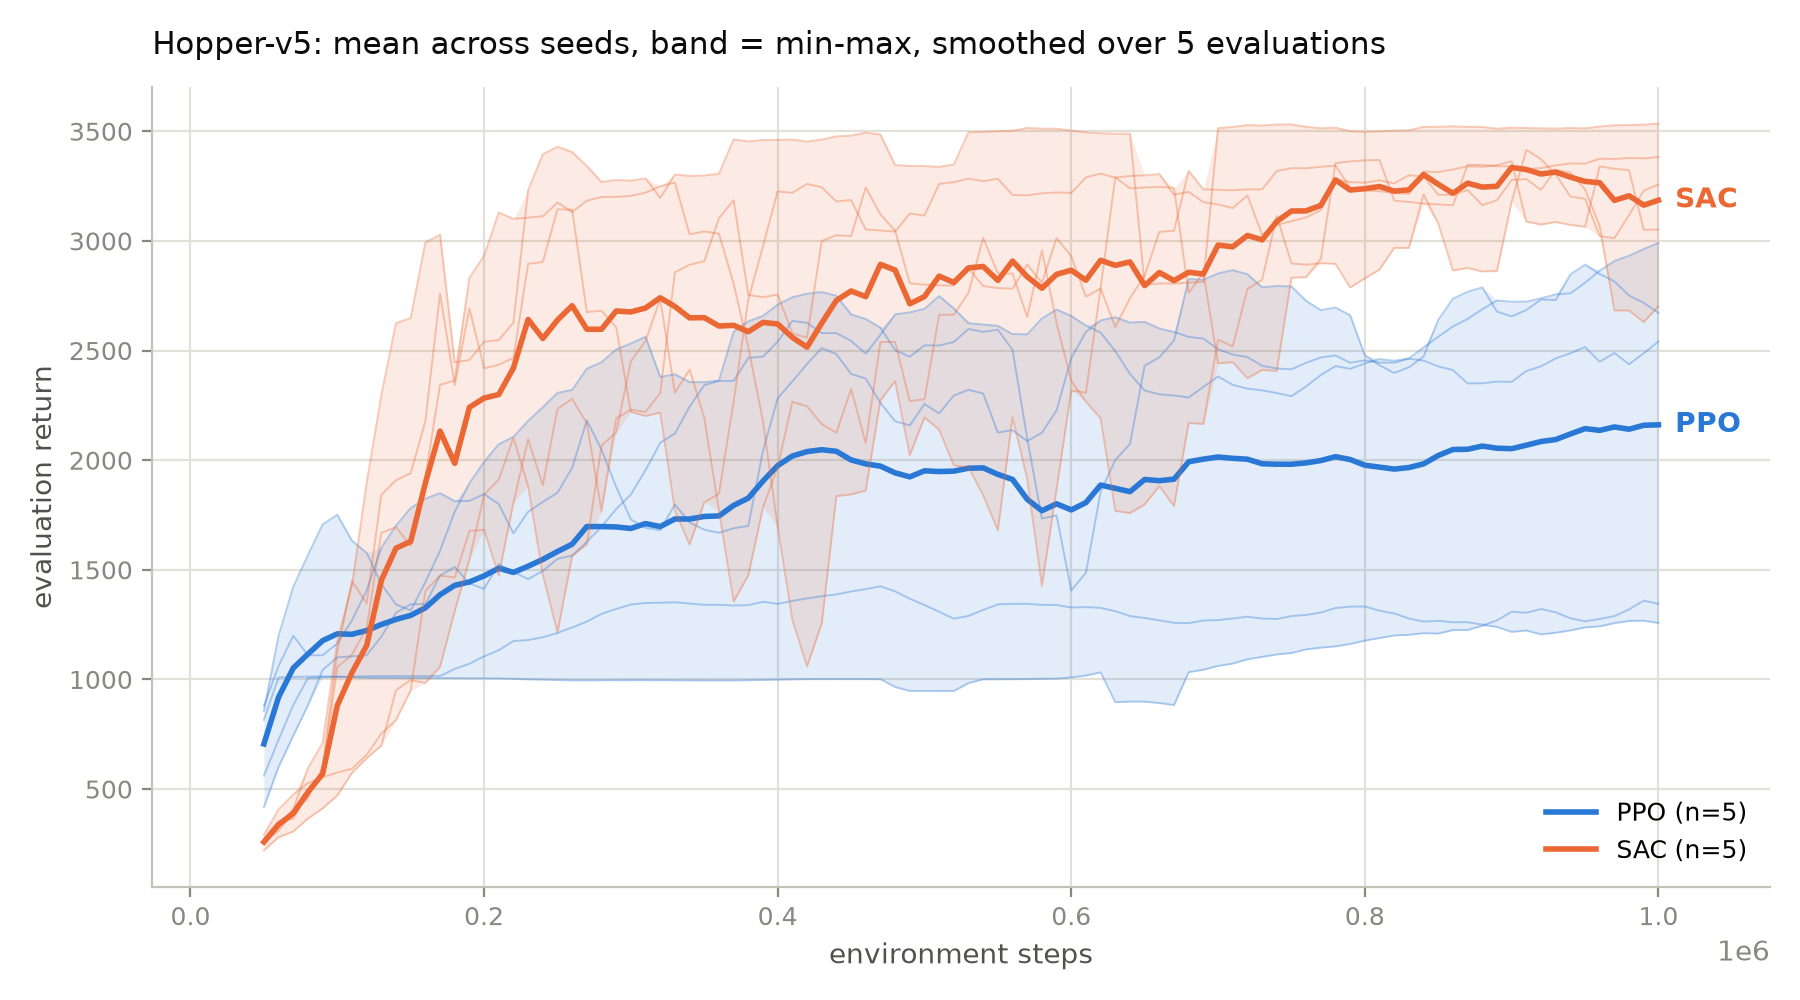
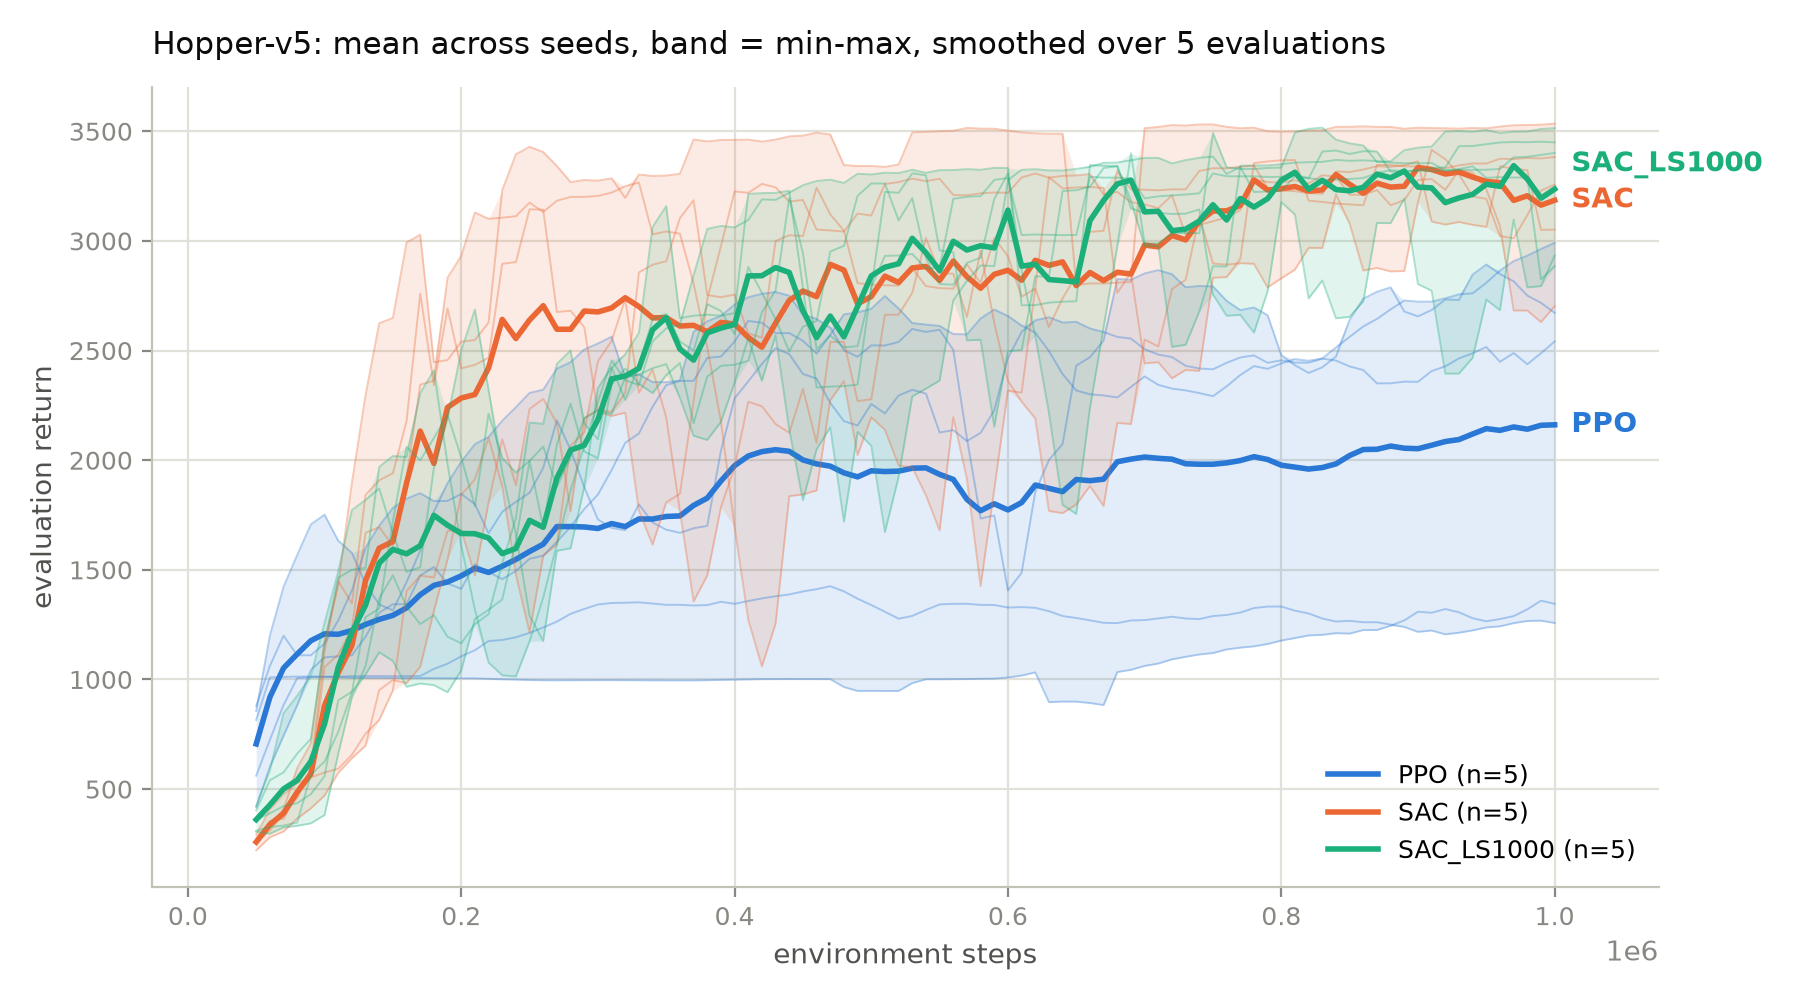
docs: add the learning_starts ablation as a negative result

diff --git a/README.md b/README.md
@@ -1,11 +1,15 @@
 # Sample efficiency of PPO and SAC on MuJoCo locomotion
 
 SAC reaches a return of 3000 on Hopper-v5 in 250k environment steps, in all five
-seeds. No PPO seed reached that level within the full 1M step budget. PPO's spread
-across seeds is 3.6 times wider than SAC's, and an earlier 3 seed estimate of PPO's
-final performance came out 27% higher than the 5 seed one.
+seeds. No PPO seed reached that level within the full 1M step budget. PPO is
+faster than SAC below a return of about 1500, and its spread across seeds is
+3.6 times wider.
 
-![Learning curves for PPO and SAC on Hopper-v5](figures/hopper-v5_comparison.png)
+A proposed explanation for SAC's slower start, the 10,000 step replay warmup, was
+tested with a third experiment arm and rejected: removing the warmup made SAC
+slower at every threshold, not faster.
+
+![Learning curves for PPO, SAC and the learning_starts ablation on Hopper-v5](figures/hopper-v5_comparison.png)
 
 ## Question
 
@@ -22,11 +26,11 @@ on physical hardware.
 | | |
 |---|---|
 | Environment | Hopper-v5 (Gymnasium, MuJoCo) |
-| Algorithms | PPO, SAC (Stable-Baselines3 2.4) |
+| Arms | PPO, SAC, SAC with `learning_starts=1000` |
 | Budget | 1,000,000 environment steps per run |
-| Seeds | 5 per algorithm |
+| Seeds | 5 per arm, 15 runs in total |
 | Evaluation | every 10k steps, 10 episodes, deterministic policy, separate env |
-| Hardware | Apple M3 Pro, CPU only, 6 concurrent runs, 78 min wall clock |
+| Hardware | Apple M3 Pro, CPU only, 6 concurrent runs |
 
 Evaluation runs in its own environment instance seeded differently from training,
 and uses the deterministic policy rather than the sampling one. Training returns
@@ -36,18 +40,24 @@ policy is exploring, so its return is both depressed and noisy.
 For PPO the observations and rewards are normalized with `VecNormalize`. SAC is
 not normalized, because reward scaling interferes with its automatic entropy
 temperature tuning. The normalization statistics are frozen during evaluation and
-reward normalization is disabled there, so both algorithms are scored on the raw
-reward scale.
+reward normalization is disabled there, so all arms are scored on the raw reward
+scale.
 
 ## Hyperparameters
 
-Both algorithms use published tuned configurations from
+PPO and SAC use published tuned configurations from
 [rl-baselines3-zoo](https://github.com/DLR-RM/rl-baselines3-zoo), not values
 chosen here. This matters more than it might look. SAC works reasonably well out
 of the box on MuJoCo, while PPO with library defaults does not, and a comparison
 between a tuned algorithm and an untuned one measures tuning effort rather than
-the algorithms. The exact values are in `run_experiment.py` and are also written
-to `results/<env>/<algo>/seed_<n>/config.json` for every run.
+the algorithms.
+
+The third arm changes exactly one value, `learning_starts` from 10000 to 1000, and
+is a deliberate ablation rather than a tuning step. It writes to its own results
+folder; `run_experiment.py` refuses an overridden hyperparameter that is not given
+its own label, so an ablation can never be averaged into a baseline by accident.
+Every run records its full configuration and any overrides in
+`results/<env>/<arm>/seed_<n>/config.json`.
 
 ## Results
 
@@ -55,17 +65,22 @@ to `results/<env>/<algo>/seed_<n>/config.json` for every run.
 
 Average of the last 10 evaluation points of each seed, then aggregated across
 seeds. Taking the single best evaluation point instead would reward lucky
-evaluations and inflate both numbers.
+evaluations and inflate every number.
 
-| Algorithm | Seeds | Mean | 95% CI | Min | Max |
+| Arm | Seeds | Mean | 95% CI | Min | Max |
 |---|---|---|---|---|---|
 | PPO | 5 | 2152.6 | +/- 1007.4 | 1247.4 | 2900.1 |
 | SAC | 5 | 3228.5 | +/- 280.0 | 2968.5 | 3524.1 |
+| SAC, `learning_starts=1000` | 5 | 3247.5 | +/- 350.8 | 2832.9 | 3510.2 |
 
 Every SAC seed scored above every PPO seed: the weakest SAC run (2968.5) beat the
 strongest PPO run (2900.1). Complete separation of two groups of five has an exact
 one sided Mann-Whitney p of 0.0040, which is also the smallest value this design
 can produce, so the test is saturated rather than merely significant.
+
+The two SAC arms are indistinguishable at the end. Their means differ by 19 points
+against confidence intervals of 280 and 351, and their seed ranges overlap almost
+completely.
 
 ### Sample efficiency
 
@@ -76,80 +91,102 @@ having reached the threshold. Seeds that never reached a threshold are censored 
 the budget rather than dropped, so a count like (3/5) raises the reported cost
 instead of hiding it.
 
-| Threshold | PPO | SAC | Faster |
+| Threshold | PPO | SAC | SAC, `ls=1000` |
 |---|---|---|---|
-| 1000 | 60k | 100k | PPO, 1.7x |
-| 2000 | 320k (3/5) | 170k | SAC, 1.9x |
-| 2500 | 430k (3/5) | 190k | SAC, 2.3x |
-| 3000 | not reached by any seed | 250k | SAC, more than 4x |
+| 1000 | 60k | 100k | 130k |
+| 2000 | 320k (3/5) | 170k | 190k |
+| 2500 | 430k (3/5) | 190k | 340k |
+| 3000 | not reached by any seed | 250k | 440k |
+
+Against PPO, SAC is 1.9x cheaper to a return of 2000, 2.3x cheaper to 2500, and at
+least 4x cheaper to 3000. Below 1500 the ordering is the other way round.
 
 ### Variance across seeds
 
-| Algorithm | 95% CI half-width | Min to max spread |
+| Arm | 95% CI half-width | Min to max spread |
 |---|---|---|
 | PPO | 1007.4 | 2.3x |
 | SAC | 280.0 | 1.2x |
+| SAC, `learning_starts=1000` | 350.8 | 1.2x |
 
 This is a result in its own right, not a nuisance. Two of five PPO runs never
 reached a return of 2000 at all, and one stayed inside a 1200 to 1400 band for the
 entire million steps while another finished near 2900. Same code, same
-hyperparameters, different seed. SAC's runs land much closer together, although
-its mid training curve is not smooth either: individual SAC seeds climb above 3000
+hyperparameters, different seed. Both SAC arms land much closer together, although
+their mid training curves are not smooth either: individual seeds climb above 3000
 and then collapse toward 1000 before recovering, which is characteristic of Hopper,
 where a policy can fall into a gait that terminates early.
 
 For a setting where every run is expensive, an algorithm that fails in two runs out
 of five is costly in a way that a mean does not express.
 
-### What changed between 3 and 5 seeds
+## Ablation: is the replay warmup the reason SAC starts slowly?
 
-The first sweep used 3 seeds. Adding two more moved the numbers enough to change
-what could be claimed:
+SAC spends its first 10,000 steps collecting random actions without a single
+gradient update, while PPO improves from its first batch. That suggested a
+hypothesis for PPO's early lead, with a clear prediction: reducing
+`learning_starts` should move SAC's early curve left and leave its plateau alone.
 
-| | 3 seeds | 5 seeds |
-|---|---|---|
-| PPO final | 2736.9 | 2152.6 |
-| PPO range | 2528.7 to 2900.1 | 1247.4 to 2900.1 |
-| SAC final | 3083.6 | 3228.5 |
-| SAC steps to 3000 | 360k | 250k |
-| Mann-Whitney p | 0.0500 | 0.0040 |
+The prediction was written down before the run, together with what would count as
+a refutation. It was refuted.
 
-The 3 seed estimate of PPO put it 27% higher than the 5 seed estimate, and it hid
-the failure mode entirely: none of the first three PPO seeds were bad ones. The
-direction of the result survived, the magnitude did not. This is the concern raised
-in Henderson et al. (2018), reproduced here by accident on a very small study.
+| Threshold | SAC | SAC, `ls=1000` | Predicted | Observed |
+|---|---|---|---|---|
+| 1000 | 100k | 130k | faster | 1.3x slower |
+| 2000 | 170k | 190k | faster | 1.1x slower |
+| 2500 | 190k | 340k | same or faster | 1.8x slower |
+| 3000 | 250k | 440k | same or faster | 1.8x slower |
 
-## Interpretation
+The plateau half of the prediction held: 3247.5 against 3228.5, well inside the
+confidence intervals. The speed half failed in the opposite direction at every
+threshold. Removing the warmup does not buy an earlier start, it costs one, and it
+slows the middle of training considerably.
 
-**The ordering depends on the performance level.** PPO reaches low returns sooner,
-the mean curves cross at roughly 130k steps, and from there SAC leads and keeps
-improving while PPO flattens.
+A plausible reading is that updates against a buffer holding a thousand
+transitions fit a narrow slice of experience and produce a worse critic, which
+later training has to undo. That is presumably why the parameter exists. This repo
+does not test that second explanation and does not claim it.
 
-**The early PPO advantage has a mechanical explanation.** SAC spends its first
-10,000 steps filling the replay buffer with random actions and does not update at
-all during them (`learning_starts=10000`), and its early updates are fitted to data
-from a near random policy, so the critic is not useful yet. PPO improves from its
-first batch. The benefit of off-policy replay only appears once the buffer holds
-enough varied experience to be worth reusing. This is a hypothesis, not something
-this experiment tested; a run with a smaller `learning_starts` would move the
-crossover point if it is correct.
+What the ablation does establish is negative and useful: the warmup is not the
+reason PPO reaches low returns sooner. PPO gets to 1000 in 60k steps, and SAC
+without the warmup still needs 130k. Whatever produces PPO's early advantage lies
+elsewhere, and candidates this study has not examined include SAC's entropy
+temperature starting high and its deterministic evaluation policy therefore
+lagging its exploring one, and PPO's observation normalization giving it
+well-scaled inputs from the first update.
 
-**PPO plateaus and SAC does not.** Within this budget PPO settles near 2150 and
-stays there, while SAC is still improving at 1M steps. Whether PPO would reach 3000
-given more steps is not answered here.
+## Three seeds were not enough, twice
+
+The first sweep used 3 seeds. Extending to 5 changed the answer twice, in two
+different ways:
+
+**The size of an effect.** PPO's final performance fell from 2736.9 to 2152.6, a
+27% difference, and the failure mode only appeared in the new seeds. None of the
+first three PPO runs were bad ones.
+
+**The direction of an effect.** On 3 seeds the ablation looked faster to a return
+of 1000 than baseline SAC, 130k against 160k, which was weak support for the
+hypothesis. On 5 seeds the baseline's median dropped to 100k while the ablation's
+stayed at 130k, and the sign flipped. The conclusion reversed on data alone, with
+no change to the code.
+
+Both are the concern raised in Henderson et al. (2018), reproduced by accident on
+a very small study. Five seeds is not a fix, it is the smallest number that made
+these two problems visible.
 
 ## Limitations
 
-- 5 seeds per algorithm. Enough to saturate the rank test, not enough to estimate
-  the size of the gap with any precision. The PPO confidence interval spans almost
-  half its own mean.
+- 5 seeds per arm. Enough to saturate the rank test between PPO and SAC, not
+  enough to estimate the size of any gap with precision. The PPO confidence
+  interval spans almost half its own mean.
 - One environment. Hopper is among the noisier locomotion tasks, and nothing here
   shows the result transfers to Walker2d or HalfCheetah.
 - One budget. The comparison is specific to 1M steps. PPO is usually run for 5M to
   10M steps on these tasks, and its plateau here may be a budget artifact.
+- One ablation value. `learning_starts` was tested at 1000 against 10000. A sweep
+  over the parameter would say more, and is not done here.
 - Thresholds are absolute and chosen by hand. A threshold based metric depends on
-  where the thresholds sit; the four used here span the range the two algorithms
-  actually cover.
+  where the thresholds sit; the four used here span the range the arms cover.
 - No hyperparameter search. Published values were used deliberately, but they were
   tuned by others and on earlier environment versions.
 - Aggregation uses the mean and a t interval. For a small number of runs,
@@ -162,31 +199,27 @@ given more steps is not answered here.
 python -m venv .venv && source .venv/bin/activate
 pip install -r requirements.txt
 
-SEEDS=5 ./run_all.sh            # the sweep behind the numbers above
-./run_all.sh                    # 3 seeds, faster
-ENV=Walker2d-v5 ./run_all.sh    # another environment
+SEEDS=5 ./run_all.sh
+SEEDS=5 ALGOS=sac LABEL=sac_ls1000 RUN_ARGS="--learning-starts 1000" ./run_all.sh
+python aggregate_results.py --env Hopper-v5 --algos ppo sac sac_ls1000
 ```
+
+Raising `SEEDS` extends an existing sweep rather than repeating it: runs that
+already have evaluation logs are skipped, and `FORCE=1` redoes them.
 
 `run_all.sh` sets one BLAS thread per process and runs as many processes
 concurrently as the machine has performance cores. The networks here are two
 256 unit layers and the MuJoCo step is single threaded, so parallelism belongs
-across runs rather than inside them.
-
-Aggregation and plotting run automatically at the end of the sweep, or on their
-own:
-
-```bash
-python aggregate_results.py --env Hopper-v5
-python aggregate_results.py --env Hopper-v5 --thresholds 500 1000 2000 3000
-```
+across runs rather than inside them. Fifteen runs at 1M steps took under three
+hours in total on the hardware above.
 
 Exact package versions used for the results above are in `requirements-lock.txt`.
 
 ## Repository layout
 
 ```
-run_experiment.py      one (algorithm, seed) run
-run_all.sh             the sweep, with bounded concurrency
+run_experiment.py      one (arm, seed) run
+run_all.sh             the sweep, with bounded concurrency and skip-if-present
 aggregate_results.py   curves, tables, statistics
 results/               evaluation logs and configs, one folder per run
 figures/               generated plots
